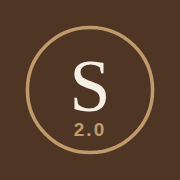
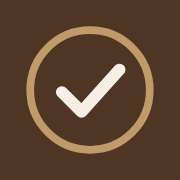
Rename main app to Habit Tracker (Habits only); move Wardrobe to new Dressing app
- index.html/sw.js/manifest: Habit Tracker, Habits + Settings only, new icon
- dressing/: separate installable app (Wardrobe + Settings), scoped storage
- Settings links to Dressing and SanEva; Pages workflow stamps dressing/sw.js
- v0.37.0, changelog, CLAUDE.md and README updated

Claude-Session: https://claude.ai/code/session_01Ed81KHFNjqdQnAMhQDvbAN

Changed region(s): [[0.1389, 0.1389, 0.8611, 0.8611]]

diff --git a/js/settings.js b/js/settings.js
@@ -76,7 +76,7 @@
     reader.onload = function () {
       var obj;
       try { obj = JSON.parse(reader.result); } catch (e) { ui.toast(L('Unreadable JSON file', 'Fichier JSON illisible')); return; }
-      if (!obj || obj.app !== 'Sandeep 2.0' || !obj.data) { ui.toast(L('This is not a Sandeep 2.0 backup', 'Ce n’est pas une sauvegarde Sandeep 2.0')); return; }
+      if (!obj || obj.app !== 'Sandeep 2.0' || !obj.data) { ui.toast(L('This is not a backup of this app', 'Ce n’est pas une sauvegarde de cette app')); return; }
       var muscu = obj.data.muscu;
       var n = muscu && muscu.sessions ? muscu.sessions.length : 0;
       var hasGym = S2.app.tabs().some(function (t) { return t.id === 'muscu'; });
@@ -167,20 +167,27 @@
       h('p', { class: 'sheet-text' }, L('Spaces: ', 'Espaces : ') + (keys.join(', ') || L('none', 'aucun')) + ' · ' + ui.num(bytes / 1024, 1) + L(' KB used.', ' Ko utilisés.')),
       h('button', { class: 'btn btn-ghost btn-block danger-text', onclick: wipe }, L('Erase everything', 'Tout effacer'))));
 
-    /* Lien vers SanEva (dossier cuisine/) : seule app qui contient la Cuisine (depuis la v0.22) et la Muscu (depuis la v0.27). Absent de SanEva elle-même. */
+    /* Liens vers les apps séparées, seulement dans l'app principale (Habit Tracker) :
+       Dressing (dossier dressing/) contient la Garde-robe depuis la v0.37 ; SanEva (dossier cuisine/) la Cuisine (v0.22) et la Muscu (v0.27). */
     if (!window.S2_APP) {
-      var sanevaUrl = new URL('cuisine/', location.href.split('#')[0]).href;
-      c.appendChild(h('h2', { class: 'section-title' }, 'SanEva'));
-      c.appendChild(h('div', { class: 'card' },
-        h('p', { class: 'sheet-text' }, L('Gym and Kitchen now live only in SanEva, their own app in French: install it on your phone and on Maeva’s. Each phone keeps its own data. Your workouts and recipes saved here stay in this app’s backups: export a backup below and import it in SanEva to get them there (it only takes Gym, Kitchen and settings).',
-          'La Muscu et la Cuisine sont maintenant seulement dans SanEva, leur propre app en français : installe-la sur ton téléphone et sur celui de Maeva. Chaque téléphone garde ses données. Tes séances et recettes enregistrées ici restent dans les sauvegardes de cette app : exporte une sauvegarde ci-dessous et importe-la dans SanEva pour les y retrouver (elle ne prend que la Muscu, la Cuisine et les réglages).')),
-        h('p', { class: 'hint' }, sanevaUrl),
-        h('div', { class: 'stack' },
-          h('a', { class: 'btn btn-primary btn-block', href: sanevaUrl }, L('Open SanEva', 'Ouvrir SanEva')),
-          h('button', { class: 'btn btn-secondary btn-block', onclick: function () {
-          if (navigator.share) navigator.share({ title: 'SanEva', url: sanevaUrl }).catch(function () {});
-          else if (navigator.clipboard) navigator.clipboard.writeText(sanevaUrl).then(function () { ui.toast(L('Link copied', 'Lien copié')); });
-        } }, L('Share the link', 'Partager le lien')))));
+      var base = location.href.split('#')[0];
+      var linkCard = function (name, folder, text) {
+        var url = new URL(folder, base).href;
+        c.appendChild(h('h2', { class: 'section-title' }, name));
+        c.appendChild(h('div', { class: 'card' },
+          h('p', { class: 'sheet-text' }, text),
+          h('p', { class: 'hint' }, url),
+          h('div', { class: 'stack' },
+            h('a', { class: 'btn btn-primary btn-block', href: url }, L('Open ', 'Ouvrir ') + name),
+            h('button', { class: 'btn btn-secondary btn-block', onclick: function () {
+              if (navigator.share) navigator.share({ title: name, url: url }).catch(function () {});
+              else if (navigator.clipboard) navigator.clipboard.writeText(url).then(function () { ui.toast(L('Link copied', 'Lien copié')); });
+            } }, L('Share the link', 'Partager le lien')))));
+      };
+      linkCard('Dressing', 'dressing/', L('Wardrobe now lives in Dressing, its own app: install it on your Home Screen. Your clothes, photos and outfits saved here stay in this app’s backups: export a backup above and import it in Dressing to get them there (it only takes Wardrobe and settings).',
+        'La Garde-robe est maintenant dans Dressing, son app à elle : installe-la sur l’écran d’accueil. Tes pièces, photos et tenues enregistrées ici restent dans les sauvegardes de cette app : exporte une sauvegarde ci-dessus et importe-la dans Dressing pour les y retrouver (elle ne prend que la Garde-robe et les réglages).'));
+      linkCard('SanEva', 'cuisine/', L('Gym and Kitchen now live only in SanEva, their own app in French: install it on your phone and on Maeva’s. Each phone keeps its own data. Your workouts and recipes saved here stay in this app’s backups: export a backup above and import it in SanEva to get them there (it only takes Gym, Kitchen and settings).',
+        'La Muscu et la Cuisine sont maintenant seulement dans SanEva, leur propre app en français : installe-la sur ton téléphone et sur celui de Maeva. Chaque téléphone garde ses données. Tes séances et recettes enregistrées ici restent dans les sauvegardes de cette app : exporte une sauvegarde ci-dessus et importe-la dans SanEva pour les y retrouver (elle ne prend que la Muscu, la Cuisine et les réglages).'));
     }
 
     c.appendChild(h('h2', { class: 'section-title' }, L('Install on iPhone', 'Installer sur l’iPhone')));
@@ -196,7 +203,7 @@
       h('div', { class: 'stack' },
         h('button', { class: 'btn btn-secondary btn-block', onclick: checkUpdate }, L('Check now', 'Vérifier maintenant')))));
 
-    c.appendChild(h('p', { class: 'hint center' }, (window.S2_APP && window.S2_APP.name || 'Sandeep 2.0') + ' · version ' + VERSION));
+    c.appendChild(h('p', { class: 'hint center' }, (window.S2_APP && window.S2_APP.name || 'Habit Tracker') + ' · version ' + VERSION));
   }
 
   S2.settings = { applyTheme: applyTheme, get: get, VERSION: VERSION };

diff --git a/dressing/sw.js b/dressing/sw.js
@@ -1,0 +1,50 @@
+/* Cache hors-ligne de l'app « Dressing » (dossier dressing/, portée limitée à ce dossier).
+   Même fonctionnement que ../sw.js : le workflow GitHub Pages remplace __BUILD__ par l'identifiant du commit,
+   ce qui installe la nouvelle version et recharge l'app. Ajouter ici tout nouveau fichier utilisé par la Garde-robe. */
+var CACHE_VERSION = 'sandeep2-dressing-__BUILD__';
+var ASSETS = [
+  './',
+  './index.html',
+  './manifest.webmanifest',
+  './config.js',
+  '../css/app.css',
+  '../js/core/i18n.js',
+  '../js/core/storage.js',
+  '../js/core/ui.js',
+  '../js/core/app.js',
+  '../js/tabs/garde-robe-combos.js',
+  '../js/tabs/garde-robe-engine.js',
+  '../js/tabs/garde-robe.js',
+  '../js/settings.js',
+  '../js/main.js',
+  './icons/icon.svg',
+  './icons/apple-touch-icon.png',
+  './icons/icon-192.png',
+  './icons/icon-512.png'
+];
+
+self.addEventListener('install', function (e) {
+  e.waitUntil(caches.open(CACHE_VERSION).then(function (c) { return c.addAll(ASSETS.map(function (u) { return new Request(u, { cache: 'reload' }); })); }).then(function () { return self.skipWaiting(); }));
+});
+
+self.addEventListener('activate', function (e) {
+  e.waitUntil(caches.keys().then(function (keys) {
+    /* Ne supprime que les anciennes versions de l'app Dressing : l'app principale (../sw.js) a ses propres caches. */
+    return Promise.all(keys.filter(function (k) { return k !== CACHE_VERSION && k.indexOf('sandeep2-dressing-') === 0; })
+      .map(function (k) { return caches.delete(k); }));
+  }).then(function () { return self.clients.claim(); }));
+});
+
+self.addEventListener('fetch', function (e) {
+  var req = e.request;
+  if (req.method !== 'GET' || new URL(req.url).origin !== location.origin) return;
+  e.respondWith(caches.open(CACHE_VERSION).then(function (cache) {
+    return cache.match(req, { ignoreSearch: true }).then(function (cached) {
+      var network = fetch(req).then(function (res) {
+        if (res && res.ok) cache.put(req, res.clone());
+        return res;
+      }).catch(function () { return cached; });
+      return cached || network;
+    });
+  }));
+});

diff --git a/index.html b/index.html
@@ -3,12 +3,12 @@
 <head>
   <meta charset="utf-8">
   <meta name="viewport" content="width=device-width, initial-scale=1, viewport-fit=cover">
-  <title>Sandeep 2.0</title>
-  <meta name="description" content="Sandeep 2.0 — my personal life hub.">
+  <title>Habit Tracker</title>
+  <meta name="description" content="Habit Tracker — my daily habits.">
   <meta name="theme-color" content="#F5EFE6">
   <meta name="apple-mobile-web-app-capable" content="yes">
   <meta name="mobile-web-app-capable" content="yes">
-  <meta name="apple-mobile-web-app-title" content="Sandeep 2.0">
+  <meta name="apple-mobile-web-app-title" content="Habit Tracker">
   <meta name="apple-mobile-web-app-status-bar-style" content="default">
   <meta name="format-detection" content="telephone=no">
   <link rel="apple-touch-icon" href="icons/apple-touch-icon.png">
@@ -19,23 +19,20 @@
 <body>
   <div id="app">
     <header class="topbar">
-      <h1 id="screen-title">Sandeep 2.0</h1>
-      <span class="brand" aria-hidden="true">Sandeep 2.0</span>
+      <h1 id="screen-title">Habit Tracker</h1>
+      <span class="brand" aria-hidden="true">Habit Tracker</span>
     </header>
     <main id="view"></main>
     <nav class="tabbar" id="tabbar" aria-label="Tabs"></nav>
   </div>
   <div id="overlay-root"></div>
-  <noscript>Sandeep 2.0 needs JavaScript.</noscript>
+  <noscript>Habit Tracker needs JavaScript.</noscript>
 
   <script src="js/core/i18n.js"></script>
   <script src="js/core/storage.js"></script>
   <script src="js/core/ui.js"></script>
   <script src="js/core/app.js"></script>
   <!-- One file per tab -->
-  <script src="js/tabs/garde-robe-combos.js"></script>
-  <script src="js/tabs/garde-robe-engine.js"></script>
-  <script src="js/tabs/garde-robe.js"></script>
   <script src="js/tabs/habitudes.js"></script>
   <script src="js/settings.js"></script>
   <script src="js/main.js"></script>

diff --git a/dressing/index.html b/dressing/index.html
@@ -1,0 +1,42 @@
+<!doctype html>
+<html lang="en">
+<head>
+  <meta charset="utf-8">
+  <meta name="viewport" content="width=device-width, initial-scale=1, viewport-fit=cover">
+  <title>Dressing</title>
+  <meta name="description" content="Dressing — my wardrobe and outfit ideas.">
+  <meta name="theme-color" content="#F5EFE6">
+  <meta name="apple-mobile-web-app-capable" content="yes">
+  <meta name="mobile-web-app-capable" content="yes">
+  <meta name="apple-mobile-web-app-title" content="Dressing">
+  <meta name="apple-mobile-web-app-status-bar-style" content="default">
+  <meta name="format-detection" content="telephone=no">
+  <link rel="apple-touch-icon" href="icons/apple-touch-icon.png">
+  <link rel="icon" href="icons/icon.svg" type="image/svg+xml">
+  <link rel="manifest" href="manifest.webmanifest">
+  <link rel="stylesheet" href="../css/app.css">
+</head>
+<body>
+  <div id="app">
+    <header class="topbar">
+      <h1 id="screen-title">Dressing</h1>
+      <span class="brand" aria-hidden="true">Dressing</span>
+    </header>
+    <main id="view"></main>
+    <nav class="tabbar" id="tabbar" aria-label="Tabs"></nav>
+  </div>
+  <div id="overlay-root"></div>
+  <noscript>Dressing needs JavaScript.</noscript>
+
+  <script src="config.js"></script>
+  <script src="../js/core/i18n.js"></script>
+  <script src="../js/core/storage.js"></script>
+  <script src="../js/core/ui.js"></script>
+  <script src="../js/core/app.js"></script>
+  <script src="../js/tabs/garde-robe-combos.js"></script>
+  <script src="../js/tabs/garde-robe-engine.js"></script>
+  <script src="../js/tabs/garde-robe.js"></script>
+  <script src="../js/settings.js"></script>
+  <script src="../js/main.js"></script>
+</body>
+</html>

diff --git a/sw.js b/sw.js
@@ -13,9 +13,6 @@ var ASSETS = [
   './js/core/storage.js',
   './js/core/ui.js',
   './js/core/app.js',
-  './js/tabs/garde-robe-combos.js',
-  './js/tabs/garde-robe-engine.js',
-  './js/tabs/garde-robe.js',
   './js/tabs/habitudes.js',
   './js/settings.js',
   './js/main.js',
@@ -31,8 +28,8 @@ self.addEventListener('install', function (e) {
 
 self.addEventListener('activate', function (e) {
   e.waitUntil(caches.keys().then(function (keys) {
-    /* Ne supprime que les anciennes versions de cette app : l'app Cuisine (cuisine/sw.js) a ses propres caches. */
-    return Promise.all(keys.filter(function (k) { return k !== CACHE_VERSION && k.indexOf('sandeep2-') === 0 && k.indexOf('sandeep2-cuisine-') !== 0; })
+    /* Ne supprime que les anciennes versions de cette app : SanEva (cuisine/sw.js) et Dressing (dressing/sw.js) ont leurs propres caches. */
+    return Promise.all(keys.filter(function (k) { return k !== CACHE_VERSION && k.indexOf('sandeep2-') === 0 && k.indexOf('sandeep2-cuisine-') !== 0 && k.indexOf('sandeep2-dressing-') !== 0; })
       .map(function (k) { return caches.delete(k); }));
   }).then(function () { return self.clients.claim(); }));
 });

diff --git a/js/core/storage.js b/js/core/storage.js
@@ -48,7 +48,7 @@
     var data = {};
     keys().forEach(function (ns) { data[ns] = load(ns); });
     return {
-      app: 'Sandeep 2.0',
+      app: 'Sandeep 2.0', /* marqueur du format de sauvegarde (commun aux 3 apps) : ne jamais changer */
       format: 1,
       exportedAt: new Date().toISOString(),
       data: data
@@ -59,7 +59,7 @@
   function importAll(obj) {
     if (!obj || typeof obj !== 'object' || obj.app !== 'Sandeep 2.0' ||
         !obj.data || typeof obj.data !== 'object') {
-      throw new Error('This file is not a Sandeep 2.0 backup.');
+      throw new Error(S2.L ? S2.L('This file is not a backup of this app.', 'Ce fichier n’est pas une sauvegarde de cette app.') : 'This file is not a backup of this app.');
     }
     var backup = exportAll();
     try {

diff --git a/dressing/config.js b/dressing/config.js
@@ -1,0 +1,9 @@
+/* App « Dressing » (dossier dressing/) : onglet Garde-robe + Réglages, bilingue, installable à part.
+   Créée le 7 novembre 2026 (v0.37) quand la Garde-robe a quitté l'app principale (devenue Habit Tracker).
+   Réutilise les fichiers de l'app principale (../js, ../css). Chargé avant tout le reste. */
+window.S2_APP = {
+  id: 'dressing',
+  name: 'Dressing',                                           /* nom affiché (écran d'accueil, en-tête, Réglages) */
+  root: '../',                                                /* chemin vers la racine de l'app principale */
+  storage: ['garde-robe', 'garde-robe-photos', 'settings']    /* export, import et effacement limités à ces données */
+};

diff --git a/CLAUDE.md b/CLAUDE.md
@@ -1,9 +1,10 @@
-# Sandeep 2.0 — règles permanentes du projet
+# Habit Tracker (ex-Sandeep 2.0) — règles permanentes du projet
 
 Application personnelle « hub de vie », utilisée uniquement sur iPhone, installée sur l'écran d'accueil.
 
 ## Règles produit
-- **Nom de l'app : Sandeep 2.0.** L'interface est **bilingue anglais / français**, au choix dans Réglages › Langue (demande du 3 novembre 2026 : l'utilisateur change selon la personne avec lui). Anglais par défaut. Tout texte visible passe par `S2.L('English', 'Français')` (`js/core/i18n.js`, chargé en premier) ; changer de langue recharge l'app. Les dates utilisent `S2.locale` (`en-GB` / `fr-FR`), `S2.ui.num` affiche un point en anglais et une virgule en français (les deux acceptés à la saisie). En français : tutoiement, formulations **neutres en genre** (l'app est partagée), typographie française. **Les données enregistrées ne sont jamais traduites** : valeurs, clés et ids restent tels quels ; les libellés intégrés (habitudes par défaut, types de pièces, couleurs, recettes intégrées non modifiées…) sont traduits à l'affichage ; ce que l'utilisateur a saisi s'affiche tel quel. Les ids d'onglets et les clés de stockage (`muscu`, `garde-robe`…) ne changent pas.
+- **Nom de l'app principale : Habit Tracker** (ex-« Sandeep 2.0 », renommée le 7 novembre 2026, v0.37 ; dépôt et URL inchangés). Elle ne contient que l'onglet **Habitudes** (+ Réglages). Le marqueur `app: 'Sandeep 2.0'` des sauvegardes JSON est un identifiant de format commun aux trois apps : ne jamais le changer. L'interface est **bilingue anglais / français**, au choix dans Réglages › Langue (demande du 3 novembre 2026 : l'utilisateur change selon la personne avec lui). Anglais par défaut. Tout texte visible passe par `S2.L('English', 'Français')` (`js/core/i18n.js`, chargé en premier) ; changer de langue recharge l'app. Les dates utilisent `S2.locale` (`en-GB` / `fr-FR`), `S2.ui.num` affiche un point en anglais et une virgule en français (les deux acceptés à la saisie). En français : tutoiement, formulations **neutres en genre** (l'app est partagée), typographie française. **Les données enregistrées ne sont jamais traduites** : valeurs, clés et ids restent tels quels ; les libellés intégrés (habitudes par défaut, types de pièces, couleurs, recettes intégrées non modifiées…) sont traduits à l'affichage ; ce que l'utilisateur a saisi s'affiche tel quel. Les ids d'onglets et les clés de stockage (`muscu`, `garde-robe`…) ne changent pas.
+- **App « Dressing » séparée, seule app qui contient la Garde-robe** (`dressing/`, créée le 7 novembre 2026, v0.37) : onglets **Garde-robe + Réglages**, bilingue comme l'app principale, installable à part. Même principe que SanEva : elle charge `../js`, `../css` avec `dressing/config.js` (`window.S2_APP` : stockage limité à `garde-robe`, `garde-robe-photos` et `settings`). Tout nouveau fichier utilisé par la Garde-robe va aussi dans `dressing/sw.js`. Ne pas remettre la Garde-robe dans `index.html` / `sw.js`.
 - **App « SanEva » séparée (ex-« SanEva Cooking »), seule app qui contient la Muscu et la Cuisine** (`cuisine/` — dossier gardé pour ne pas casser les apps installées ; créée le 5 novembre 2026 pour le téléphone de Maeva, devenue SanEva le 6 novembre 2026) : onglets **Aujourd'hui + Muscu + Objectif + Cuisine + Réglages**, toujours en français, installable à part. Elle charge les mêmes fichiers (`../js`, `../css`, `../img`) avec `cuisine/config.js` (`window.S2_APP` : langue imposée, stockage limité à `aujourdhui`, `muscu`, `objectif`, `cuisine` et `settings`). Chaque onglet doit fonctionner sans les autres. **App entièrement personnelle, un téléphone = une personne** (décision du 7 novembre 2026, v0.36) : aucune 2e personne nulle part (ni Aujourd'hui, ni Muscu, ni Objectif, ni Cuisine) ; Maeva a son propre SanEva sur son téléphone. Les courses à 2 passent par un échange de message entre les deux apps (v0.37 : Courses › « Envoyer mes courses » / « Ajouter les courses de quelqu'un », `js/tabs/cuisine-share.js`), pas par un profil de l'autre personne. Aujourd'hui lit les autres onglets uniquement via leurs API (`S2.objectif`, `S2.muscu`, `S2.cuisine`). Objectif (demande du 6 novembre 2026 : un profil par téléphone, Sandeep et Maeva) calcule les besoins du jour ; la Cuisine les lit via `S2.objectif.targets()` (jamais la clé `sandeep2:objectif`) et doit marcher sans. Tout nouveau fichier utilisé par la Muscu ou la Cuisine va aussi dans `cuisine/sw.js`.
 - **Mobile-first (iPhone)** : grandes zones tactiles (≥ 44 px, idéalement 48 px), clavier numérique pour toute saisie de nombre (`inputmode="decimal"` pour les poids, `inputmode="numeric"` pour les entiers ; accepter la virgule), champs en 16 px minimum (pas de zoom iOS), utilisable **à une main à la salle** (actions principales en bas de l'écran), respect des safe areas (`env(safe-area-inset-*)`).
 - **Contrôle manuel total** : aucune récupération automatique de données externes, aucune décision automatique. Les suggestions sont permises mais l'utilisateur confirme toujours (suppression, import, fin de séance… passent par une confirmation).
@@ -11,12 +12,12 @@ Application personnelle « hub de vie », utilisée uniquement sur iPhone, insta
 ## Règles techniques
 - **HTML/CSS/JavaScript simples, sans étape de build**, pour tourner tel quel sur GitHub Pages. Pas de framework, pas de npm, pas de dépendance CDN.
 - Scripts classiques (pas de modules ES) sous l'espace de noms global `window.S2`. Chemins **relatifs** partout (l'app est servie sous `/Sandeep-2.0/`).
-- **Modulaire** : chaque domaine de vie est un onglet **et** son propre fichier JS dans `js/tabs/`. Onglets de Sandeep 2.0 : Garde-robe, Habitudes, Réglages, puis d'autres plus tard. **La Cuisine n'est plus dans Sandeep 2.0 depuis la v0.22** (5 novembre 2026) : elle vit seulement dans SanEva (`cuisine/`) ; ses fichiers restent dans `js/tabs/cuisine*.js`. **La Muscu non plus depuis la v0.27** (6 novembre 2026) : elle vit seulement dans SanEva ; son fichier reste `js/tabs/muscu.js`. Ne remettre ni l'une ni l'autre dans `index.html` / `sw.js`.
+- **Modulaire** : chaque domaine de vie est un onglet **et** son propre fichier JS dans `js/tabs/`. Onglets de Habit Tracker : Habitudes, Réglages. **La Garde-robe n'est plus dans l'app principale depuis la v0.37** : elle vit seulement dans Dressing (`dressing/`) ; ses fichiers restent `js/tabs/garde-robe*.js`. **La Cuisine n'est plus dans Sandeep 2.0 depuis la v0.22** (5 novembre 2026) : elle vit seulement dans SanEva (`cuisine/`) ; ses fichiers restent dans `js/tabs/cuisine*.js`. **La Muscu non plus depuis la v0.27** (6 novembre 2026) : elle vit seulement dans SanEva ; son fichier reste `js/tabs/muscu.js`. Ne remettre ni l'une ni l'autre dans `index.html` / `sw.js`.
   - Un onglet s'enregistre via `S2.app.registerTab({ id, label, icon, soon, mount })`.
   - Chaque onglet stocke ses données sous **sa propre clé** localStorage (`sandeep2:<id>`) via `S2.storage`. Un onglet ne lit/écrit jamais les données d'un autre.
   - **Ajouter un onglet ne doit jamais casser les existants** : le rendu de chaque onglet est isolé (try/catch dans `js/core/app.js`), pas de CSS global non préfixé dans un onglet (préfixer les classes par l'id de l'onglet, ex. `.mu-`).
 - **Données dans localStorage**, avec **Export / Import JSON** dans l'écran Réglages (l'export inclut automatiquement toutes les clés `sandeep2:*`, donc tout nouvel onglet est sauvegardé sans travail supplémentaire). Toute évolution du format de données doit rester compatible avec les anciens exports (migrations dans le `load` de l'onglet).
-- Service worker (`sw.js`) pour un usage hors-ligne à la salle. Ajouter tout nouveau fichier à la liste `ASSETS` de `sw.js`. Ne pas toucher au jeton `__BUILD__` : le workflow Pages (`.github/workflows/pages.yml`) le remplace par le SHA du commit, ce qui déclenche la mise à jour automatique de l'app installée (`js/main.js` recharge dès que l'utilisateur ne saisit rien). Tout ce qui est mergé sur `main` est publié sur https://sdeepmvp.github.io/Sandeep-2.0/.
+- Service worker (`sw.js`) pour un usage hors-ligne à la salle. Ajouter tout nouveau fichier à la liste `ASSETS` de `sw.js`. Ne pas toucher au jeton `__BUILD__` : le workflow Pages (`.github/workflows/pages.yml`) le remplace (dans `sw.js`, `cuisine/sw.js` et `dressing/sw.js`) par le SHA du commit, ce qui déclenche la mise à jour automatique de l'app installée (`js/main.js` recharge dès que l'utilisateur ne saisit rien). Tout ce qui est mergé sur `main` est publié sur https://sdeepmvp.github.io/Sandeep-2.0/.
 
 ## Style visuel
 - Minimal, palette neutre et terreuse : crème, beige, camel, brun chocolat, bleu marine. Typographie propre (police système), chiffres tabulaires.
@@ -40,6 +41,7 @@ js/core/ui.js         helpers DOM, feuilles (bottom sheets), confirmations, toas
 js/core/app.js        registre des onglets, navigation
 js/tabs/*.js          un fichier par onglet (muscu.js, garde-robe.js, …)
 js/tabs/cuisine-recipes.js  recettes intégrées de Kitchen/Cuisine, en français + `en` (mêmes nombres de lignes ; nouvel id = ajoutée aux données existantes ; recette retirée = empreinte dans REMOVED de cuisine.js)
+dressing/             app « Dressing » : Garde-robe (index.html, config.js, manifest, sw.js, icônes)
 cuisine/              app « SanEva » : Muscu + Cuisine (index.html, config.js, manifest, sw.js, icônes)
 img/recettes/         photos des recettes intégrées (champ `photo`, lu depuis la source, ajoutées à cuisine/sw.js)
 js/tabs/cuisine-share.js    module PUR des courses à 2 : liste envoyée par message (texte lisible + ligne SANEVA1:…), relue et additionnée à la sienne

diff --git a/CHANGELOG.md b/CHANGELOG.md
@@ -1,4 +1,9 @@
-# Changelog — Sandeep 2.0
+# Changelog — Habit Tracker (ex-Sandeep 2.0), SanEva, Dressing
+
+## 0.37.0 — 2026-11-07
+- The main app is renamed **Habit Tracker** and now only has **Habits** (+ Settings). New icon.
+- **Wardrobe moves to Dressing**, its own app (`dressing/`, English or French, installable on the Home Screen, own icon): Wardrobe + Settings (with My Style). Its backups only take Wardrobe, its photos and settings.
+- Habit Tracker › Settings links to Dressing and SanEva. To bring your clothes over on iPhone: export a backup in Habit Tracker and import it in Dressing. Old backups still import everywhere.
 
 ## 0.37.0 — 2026-11-07
 - SanEva Kitchen › Groceries: **groceries for two, by message**. Each person plans in their own app, then:

diff --git a/README.md b/README.md
@@ -1,8 +1,10 @@
-# Sandeep 2.0
+# Habit Tracker (repo Sandeep-2.0)
 
-My personal life hub — a mobile-first web app for iPhone (plain HTML/CSS/JS, no build step).
+Mobile-first web apps for iPhone (plain HTML/CSS/JS, no build step).
 
-- Live: https://sdeepmvp.github.io/Sandeep-2.0/
+- Habit Tracker: https://sdeepmvp.github.io/Sandeep-2.0/
+- Dressing (wardrobe): https://sdeepmvp.github.io/Sandeep-2.0/dressing/
+- SanEva (gym, kitchen, goals): https://sdeepmvp.github.io/Sandeep-2.0/cuisine/
 - Project rules: [CLAUDE.md](CLAUDE.md) · Changes: [CHANGELOG.md](CHANGELOG.md)
 
 ## Run locally
